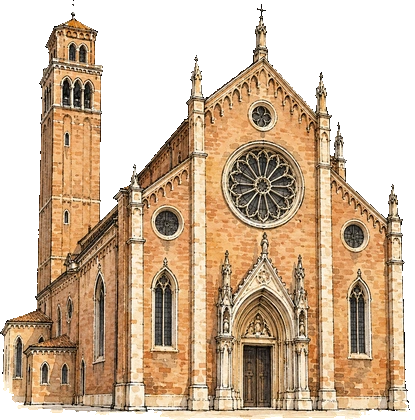
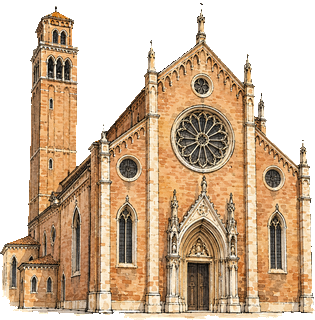
Icône des Frari : contour net, sans halo, plus petite (v2.67.4)

diff --git a/style.css b/style.css
@@ -995,8 +995,7 @@ img.cut.outfit{object-fit:contain!important;object-position:50% 50%!important}
 .dev-menu b{font-size:12px;color:#7a6a50;text-transform:uppercase;letter-spacing:.06em}
 .dev-menu button{text-align:left;padding:9px 12px;border-radius:12px;background:#e4eef8;color:#1f3a52;font-size:15px}
 
-/* pastille remplacée par une icône dessinée (fond transparent) : même clic, taille réglable via PLACE_ICONS */
-.pin.has-icon{width:var(--iw,70px);height:var(--ih,70px)}
-.pin-in.icon{width:var(--iw,70px)!important;height:var(--ih,70px)!important;margin:calc(var(--ih,70px) / -2 + 22px) 0 0 calc(var(--iw,70px) / -2 + 22px)!important;border-radius:0!important;border:0!important;background:var(--img) center/contain no-repeat!important;box-shadow:none!important;overflow:visible!important;filter:drop-shadow(0 2px 3px rgba(0,0,0,.45))}
-.pin-in.icon.seen{filter:drop-shadow(0 0 2px var(--teal)) drop-shadow(0 2px 3px rgba(0,0,0,.4))}
-.pin-in.icon.done{filter:drop-shadow(0 0 2px var(--ok)) drop-shadow(0 2px 3px rgba(0,0,0,.4))}
+/* pastille remplacée par une icône dessinée (fond transparent, contour net, sans ombre ni halo) : même clic, taille réglable via PLACE_ICONS */
+.pin.has-icon{width:var(--iw,50px);height:var(--ih,50px)}
+.pin-in.icon,.pin-in.icon.seen,.pin-in.icon.done{width:var(--iw,50px)!important;height:var(--ih,50px)!important;margin:calc(var(--ih,50px) / -2 + 22px) 0 0 calc(var(--iw,50px) / -2 + 22px)!important;border-radius:0!important;border:0!important;background:var(--img) center/contain no-repeat!important;box-shadow:none!important;overflow:visible!important;filter:none!important}
+.pin-in.icon::before,.pin-in.icon::after{content:none!important;display:none!important;background:none!important;filter:none!important}

diff --git a/app.js b/app.js
@@ -559,7 +559,7 @@ Promise.all(WALKERS.map(startWalker)).then(() => requestAnimationFrame(walkTick)
 window.__doge = () => walkerAt(WALKERS[0]); window.__monte = () => walkerAt(WALKERS[1]); window.__walkerAt = (i, t) => walkerAt(WALKERS[i], t); window.__WK = WALKERS; window.__marc = () => walkerAt(WALKERS[2]); window.__lion = () => walkerAt(WALKERS[4]); window.__gond = () => walkerAt(WALKERS[3]);
 const pinEls = {};
 // Icônes dessinées à la place de la pastille photo (fond transparent) ; w = largeur en px (à régler ici), ratio = largeur/hauteur de l'image.
-const PLACE_ICONS = { frari: { src: "img/places/frari-icon.webp", w: 78, ratio: 413 / 420 } };
+const PLACE_ICONS = { frari: { src: "img/places/frari-icon.webp", w: 48, ratio: 1 } };
 function renderMap() {
   PLACES.forEach((p) => {
     let el = pinEls[p.id];

diff --git a/sw.js b/sw.js
@@ -1,4 +1,4 @@
-const VERSION = "v2.67.2";
+const VERSION = "v2.67.4";
 const SHELL = `vq-shell-${VERSION}`;
 // Cœur de l'appli précaché ; tout le reste (images, données, vendor) est mis en cache à la volée.
 const FILES = ["./", "index.html", "style.css", "app.js", "data.js", "intro.js", "mapstyle.js", "config.js", "manifest.webmanifest", "vendor/maplibre-gl.js", "vendor/maplibre-gl.css", "data/petits-canaux.json", "data/outfits.json", "data/bridges.json", "data/facts.json", "icons/icon-192.png", "icons/icon-512.png", "img/corto-face.webp", "img/corto-content.webp", "img/corto-venise-pastel.webp"];
